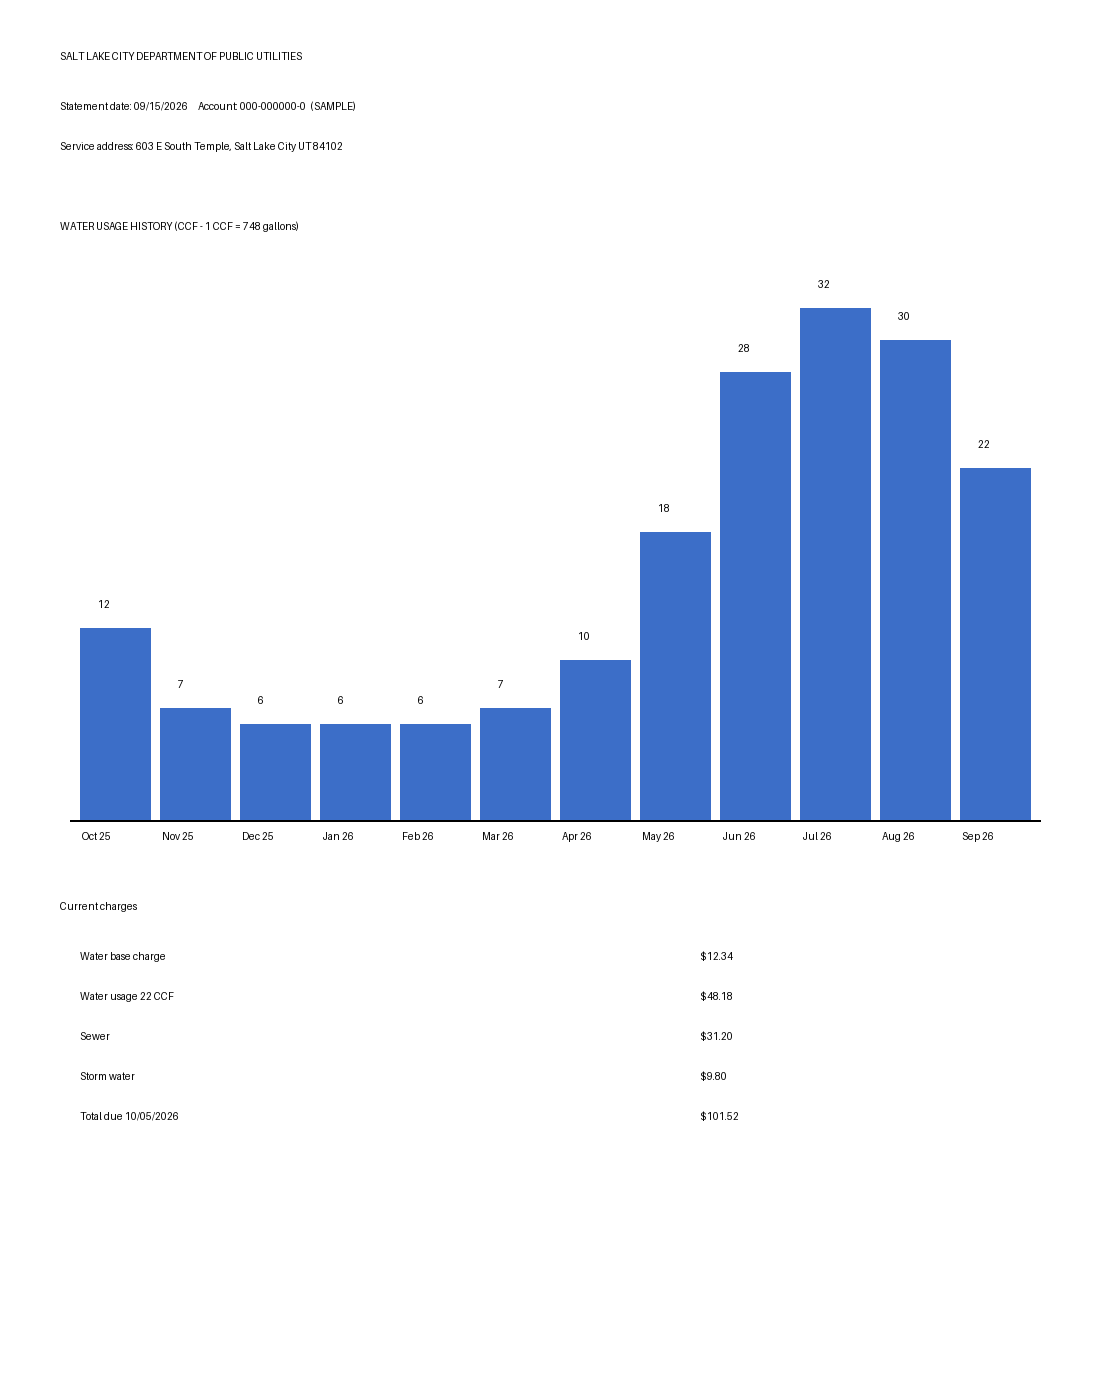
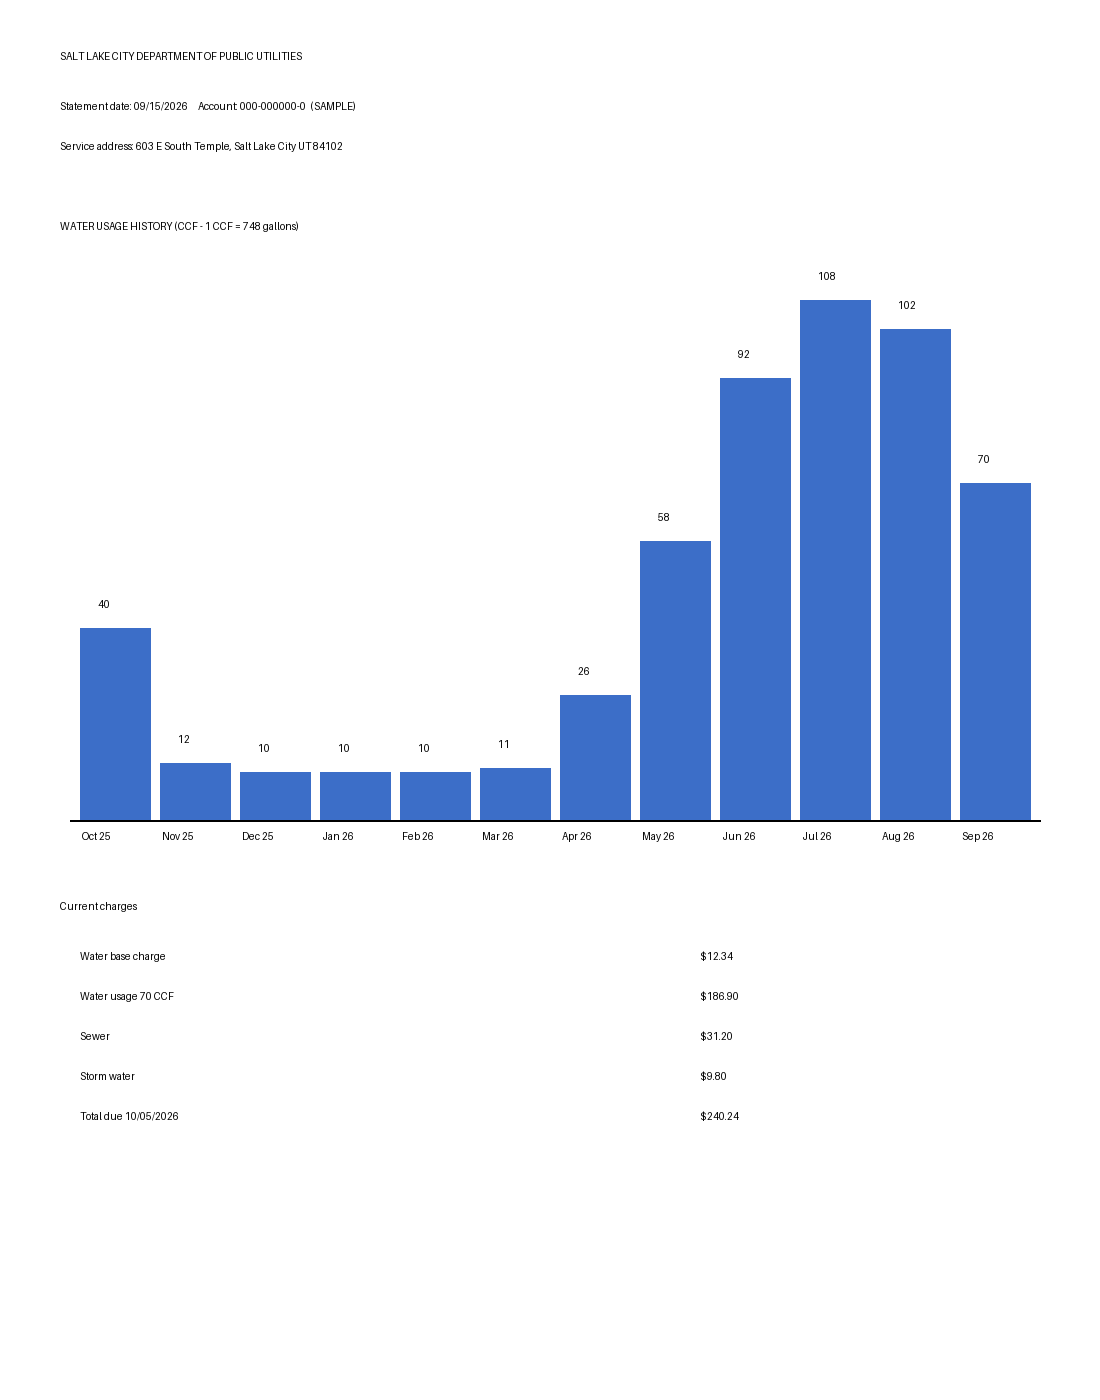
Sample bill sized for the mansion's lawn so the demo shows a gap; brief: calendar, API, connector, imagery caveat

diff --git a/scripts/fixtures/make_sample_bill.py b/scripts/fixtures/make_sample_bill.py
@@ -7,7 +7,9 @@ import os
 
 from PIL import Image, ImageDraw, ImageFont
 
-MONTHS = [("Oct 25", 12), ("Nov 25", 7), ("Dec 25", 6), ("Jan 26", 6), ("Feb 26", 6), ("Mar 26", 7), ("Apr 26", 10), ("May 26", 18), ("Jun 26", 28), ("Jul 26", 32), ("Aug 26", 30), ("Sep 26", 22)]
+# Sized for the mansion's ~11,000 sq ft of lawn: about 320k gal outdoors vs. ~200k the lawn needs,
+# so the demo shows an overwatering gap.
+MONTHS = [("Oct 25", 40), ("Nov 25", 12), ("Dec 25", 10), ("Jan 26", 10), ("Feb 26", 10), ("Mar 26", 11), ("Apr 26", 26), ("May 26", 58), ("Jun 26", 92), ("Jul 26", 108), ("Aug 26", 102), ("Sep 26", 70)]
 
 
 def font(size):
@@ -26,13 +28,13 @@ def main():
     d.text((60, 220), "WATER USAGE HISTORY (CCF - 1 CCF = 748 gallons)", fill="black", font=font(26))
     x0, y0, bw = 80, 820, 70
     for i, (m, v) in enumerate(MONTHS):
-        x, h = x0 + i * (bw + 10), v * 16
+        x, h = x0 + i * (bw + 10), v * 520 // max(v for _, v in MONTHS)
         d.rectangle([x, y0 - h, x + bw, y0], fill=(60, 110, 200))
         d.text((x + 18, y0 - h - 30), str(v), fill="black", font=font(22))
         d.text((x + 2, y0 + 10), m, fill="black", font=font(18))
     d.line([x0 - 10, y0, x0 + 12 * (bw + 10), y0], fill="black", width=2)
     d.text((60, 900), "Current charges", fill="black", font=font(26))
-    for j, (a, b) in enumerate([("Water base charge", "$12.34"), ("Water usage 22 CCF", "$48.18"), ("Sewer", "$31.20"), ("Storm water", "$9.80"), ("Total due 10/05/2026", "$101.52")]):
+    for j, (a, b) in enumerate([("Water base charge", "$12.34"), ("Water usage 70 CCF", "$186.90"), ("Sewer", "$31.20"), ("Storm water", "$9.80"), ("Total due 10/05/2026", "$240.24")]):
         d.text((80, 950 + j * 40), a, fill="black", font=font(22))
         d.text((700, 950 + j * 40), b, fill="black", font=font(22))
     out = os.path.join(os.path.dirname(__file__), "sample_slc_bill.png")

diff --git a/docs/pitch/BRIEF.md b/docs/pitch/BRIEF.md
@@ -154,11 +154,23 @@ Already in motion: the DWRe contact. Outreach to districts and controller makers
 - **Logo.** `app/src/lib/Logo.svelte`.
 - **Tone.** Friendly, plain words, a little wry. Utah first. Never say "free" as a selling point.
 
+## Demo notes (Oct 28)
+
+- **Sample bill re-sized for the demo lot.** `scripts/fixtures/sample_slc_bill.png` is now sized for the Governor's Mansion (~11k sq ft lawn): about 321k gal outdoors against ~202k needed, so the page shows a gap of ~119k gal and "do X and save Y". Verified on prod: Claude reads all 12 months.
+- **Live statewide measurement depends on USDA, and usda.gov's DNSSEC is broken right now.** Validating resolvers can't look up the imagery host. That includes Cloudflare (so our Worker can't reach it), Google 8.8.8.8 and Comcast.
+  - The app now falls back to fetching USDA directly from the browser. That works only if the laptop's DNS doesn't validate DNSSEC.
+  - **Lead the demo with a precomputed lot (any address in 84102, Avenues, Liberty Wells, Central City, Downtown or Sandy).**
+  - Show "any Utah address" second, with a screenshot or recorded fallback ready. If USDA fixes their DNS, it just works again.
+
 ## Status of features (update as they land)
 
 - [x] Live site, statewide address search, live measurement, bill reading, watering plan, native page, rebates + jurisdictions
 - [x] Greenspace cross-check (RESULTS Run 7)
-- [ ] Watering calendar you can subscribe to + schedule API driven by the state's Weekly Lawn Watering Guide
-- [ ] OpenSprinkler connector + demo-firmware walkthrough (`connect/`)
+- [x] Watering calendar you can subscribe to (live). It's on `/watering`, in the card titled "Get this schedule as a calendar". The feed is `webcal://overwater.ing/api/calendar/salt-lake-spray.ics`. It's driven by the state's Weekly Lawn Watering Guide, which is parsed per county.
+- [x] Open schedule API (live): `https://overwater.ing/api/schedule/salt-lake-spray`. Add `?date=2027-07-14` to preview a summer week.
+- [x] OpenSprinkler connector (live at `/connect`). It's one file, `overwater.ing/connect/opensprinkler.mjs`, tested against OpenSprinkler's real firmware (2.2.1) built in demo mode:
+  - Demo: `scripts/opensprinkler-demo.sh` starts the controller at http://localhost:8080 (password `opendoor`; needs Docker on a Mac).
+  - Then `scripts/opensprinkler-demo.sh sync` runs this week. The state says no watering in late October, so the program switches off.
+  - Then `scripts/opensprinkler-demo.sh sync --date 2027-07-14` previews July: Mon/Wed/Fri at 5:00, 4 × 7 min, 60 min apart, on zones 1–4. The program appears in the OpenSprinkler UI.
 - [ ] `/impact` page: statewide, energy and data-center framing
 - [ ] Usage analytics
